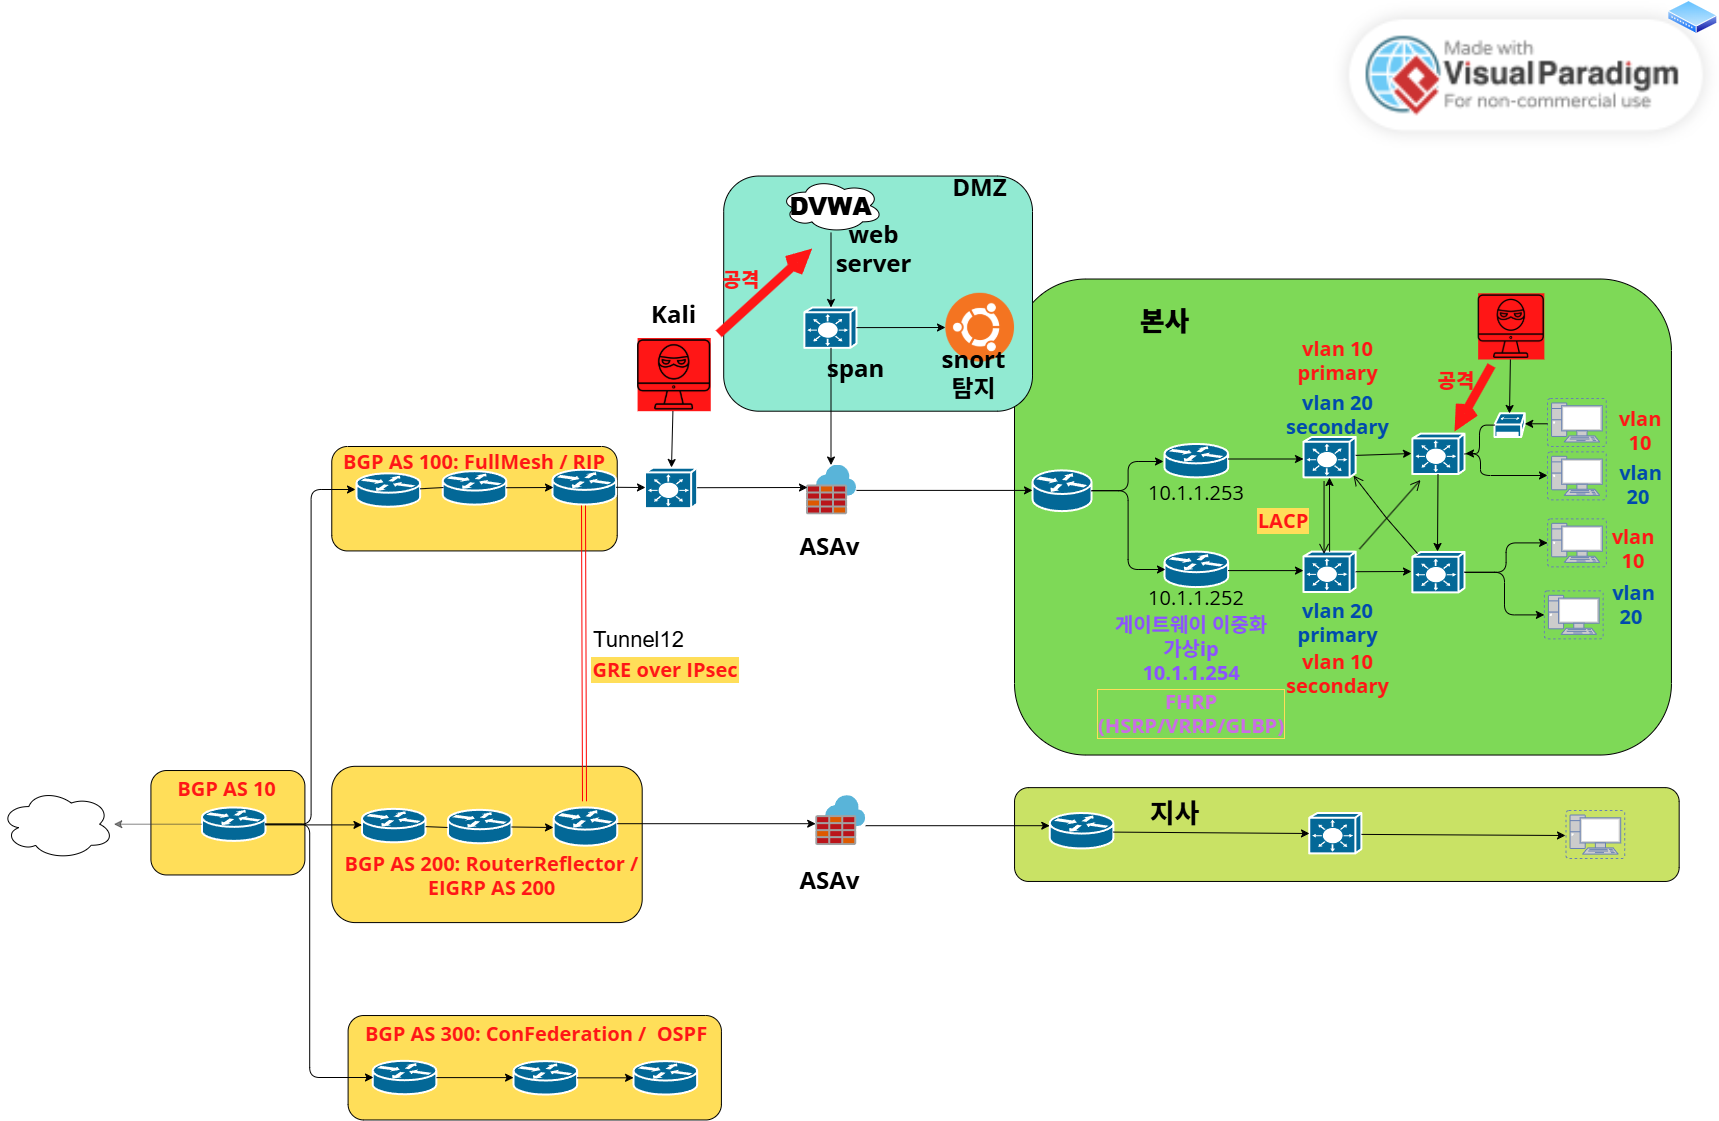
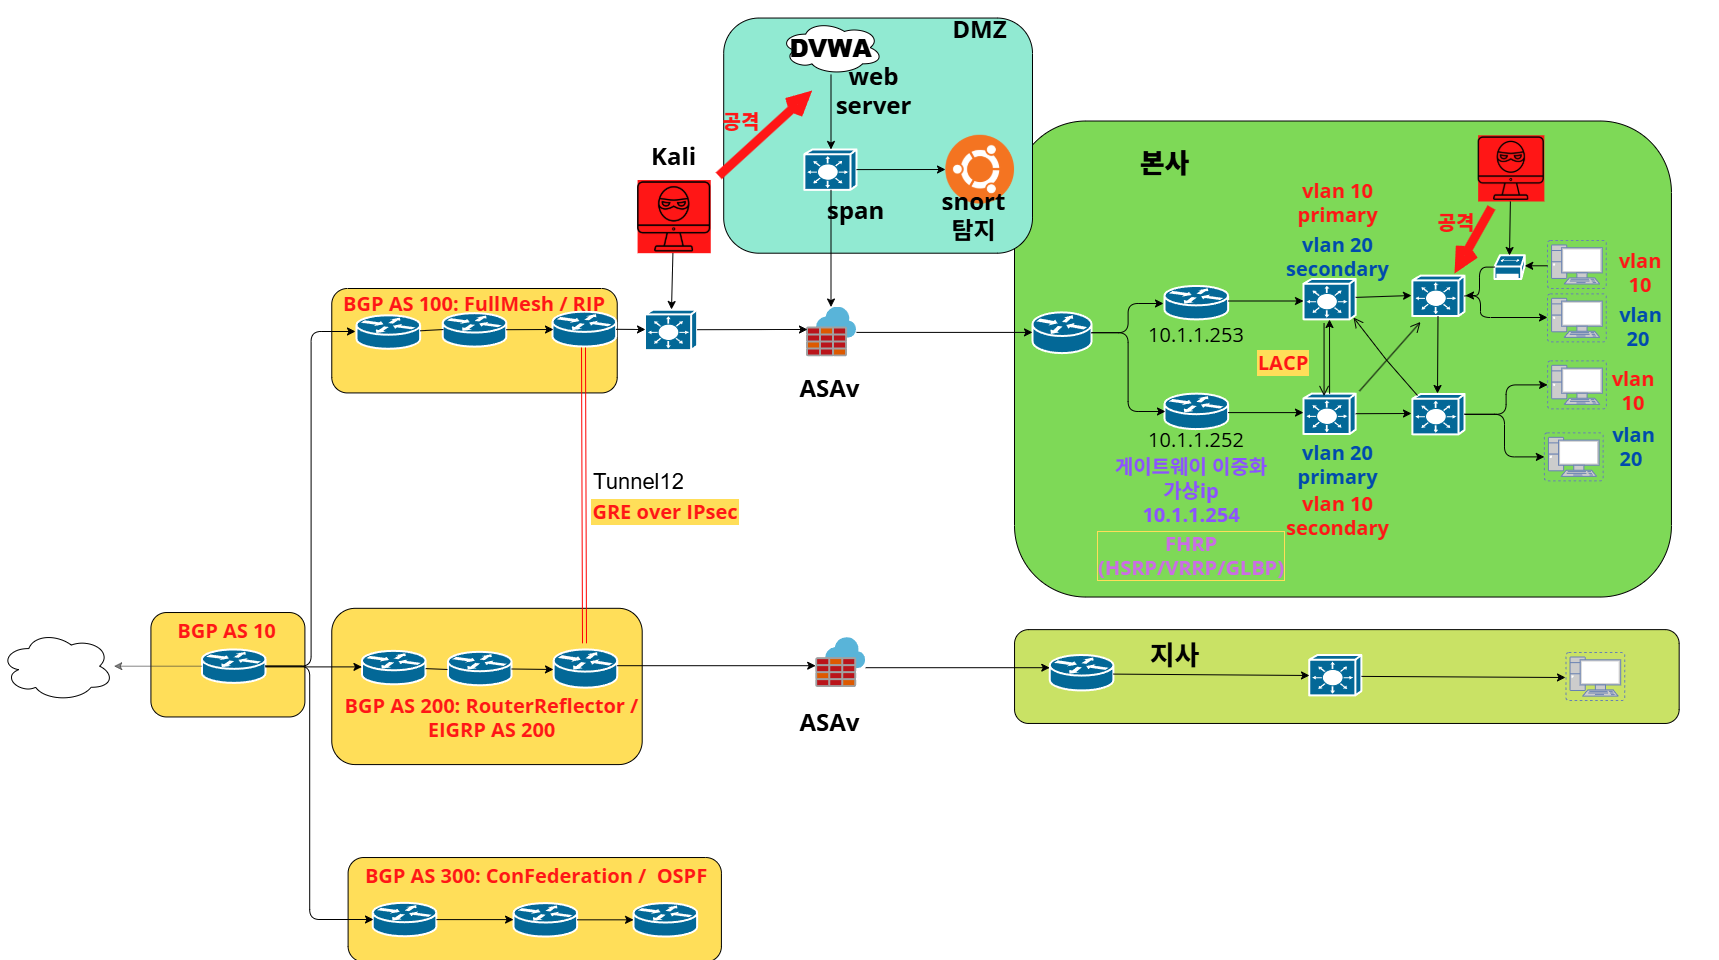
final project

diff --git a/src/main/webapp/index.html b/src/main/webapp/index.html
@@ -6,6 +6,7 @@
   <title>DevOps CI/CD Pipeline</title>
 
   <style>
+
     *{
       margin:0;
       padding:0;
@@ -19,11 +20,30 @@
       padding:40px;
     }
 
+    /* 토폴로지 이미지 */
+
+    .topology{
+      width:100%;
+      text-align:center;
+      margin-bottom:70px;
+    }
+
+    .topology img{
+      width:100%;
+      max-width:1450px;
+      border-radius:20px;
+      box-shadow:0 0 30px rgba(0,0,0,0.5);
+    }
+
+    /* 제목 */
+
     h1{
       text-align:center;
       margin-bottom:50px;
       color:#38bdf8;
     }
+
+    /* 파이프라인 */
 
     .pipeline{
       display:flex;
@@ -32,6 +52,8 @@
       flex-wrap:wrap;
       gap:20px;
     }
+
+    /* 카드 */
 
     .step{
       background:#1e293b;
@@ -64,12 +86,18 @@
     .step p{
       font-size:14px;
       line-height:1.6;
+      color:#e2e8f0;
     }
+
+    /* 화살표 */
 
     .arrow{
       font-size:50px;
       color:#38bdf8;
+      font-weight:bold;
     }
+
+    /* footer */
 
     footer{
       margin-top:60px;
@@ -79,15 +107,27 @@
     }
 
   </style>
+
 </head>
 
 <body>
 
+  <!-- 네트워크 토폴로지 -->
+
+  <div class="topology">
+    <img src="https://raw.githubusercontent.com/shironeko-shina/PDevOps/master/src/main/webapp/topology.png" alt="Network Topology">
+  </div>
+
+  <!-- DevOps 제목 -->
+
   <h1>DevOps CI/CD Pipeline Architecture</h1>
+
+  <!-- Pipeline -->
 
   <div class="pipeline">
 
     <!-- Developer -->
+
     <div class="step">
       <img src="https://cdn-icons-png.flaticon.com/512/1055/1055687.png">
       <h2>Developer PC</h2>
@@ -100,6 +140,7 @@
     <div class="arrow">➡</div>
 
     <!-- GitHub -->
+
     <div class="step">
       <img src="https://cdn-icons-png.flaticon.com/512/25/25231.png">
       <h2>GitHub</h2>
@@ -112,6 +153,7 @@
     <div class="arrow">➡</div>
 
     <!-- Jenkins -->
+
     <div class="step">
       <img src="https://www.jenkins.io/images/logos/jenkins/jenkins.png">
       <h2>Jenkins</h2>
@@ -125,6 +167,7 @@
     <div class="arrow">➡</div>
 
     <!-- Ansible -->
+
     <div class="step">
       <img src="https://upload.wikimedia.org/wikipedia/commons/2/24/Ansible_logo.svg">
       <h2>Ansible</h2>
@@ -138,6 +181,7 @@
     <div class="arrow">➡</div>
 
     <!-- Docker Hub -->
+
     <div class="step">
       <img src="https://www.vectorlogo.zone/logos/docker/docker-icon.svg">
       <h2>Docker Hub</h2>
@@ -150,6 +194,7 @@
     <div class="arrow">➡</div>
 
     <!-- Kubernetes -->
+
     <div class="step">
       <img src="https://www.vectorlogo.zone/logos/kubernetes/kubernetes-icon.svg">
       <h2>Kubernetes</h2>
@@ -162,6 +207,7 @@
     <div class="arrow">➡</div>
 
     <!-- Load Balancer -->
+
     <div class="step">
       <img src="https://cdn-icons-png.flaticon.com/512/873/873120.png">
       <h2>Load Balancer</h2>
@@ -173,6 +219,8 @@
     </div>
 
   </div>
+
+  <!-- Footer -->
 
   <footer>
     AWS EC2 + Jenkins + GitHub + Ansible + Docker + Kubernetes + ALB 기반 DevOps CI/CD Pipeline